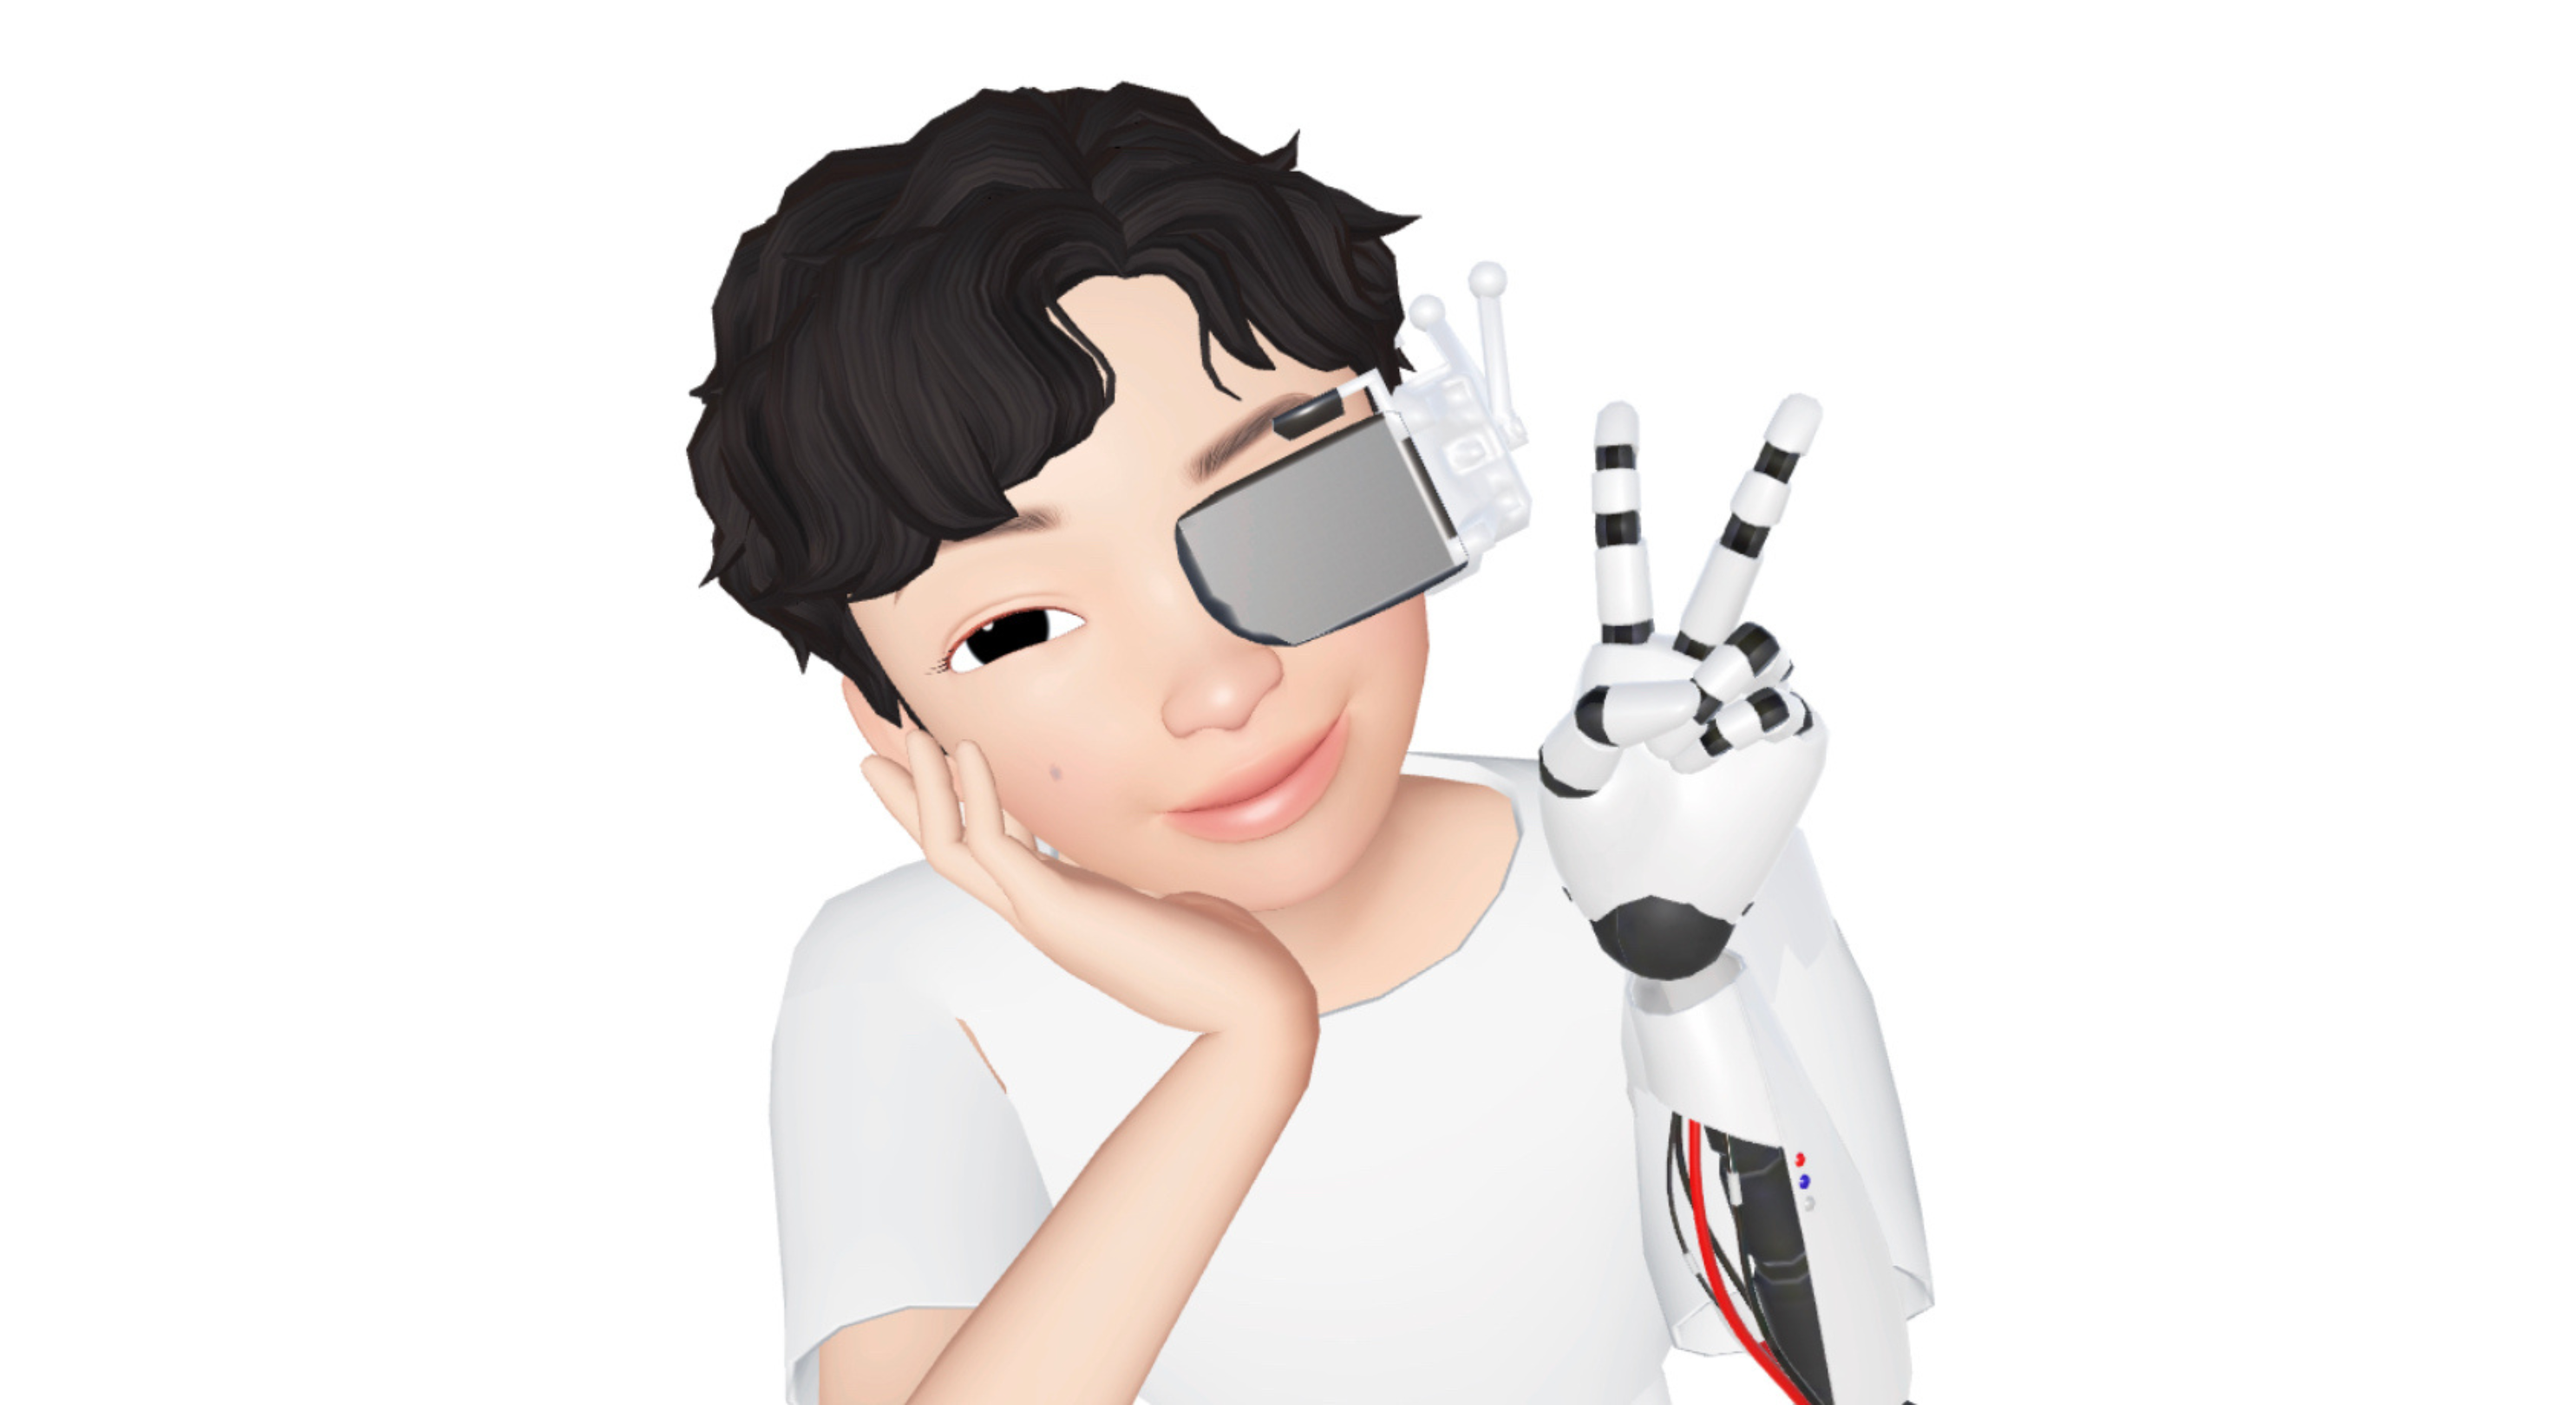
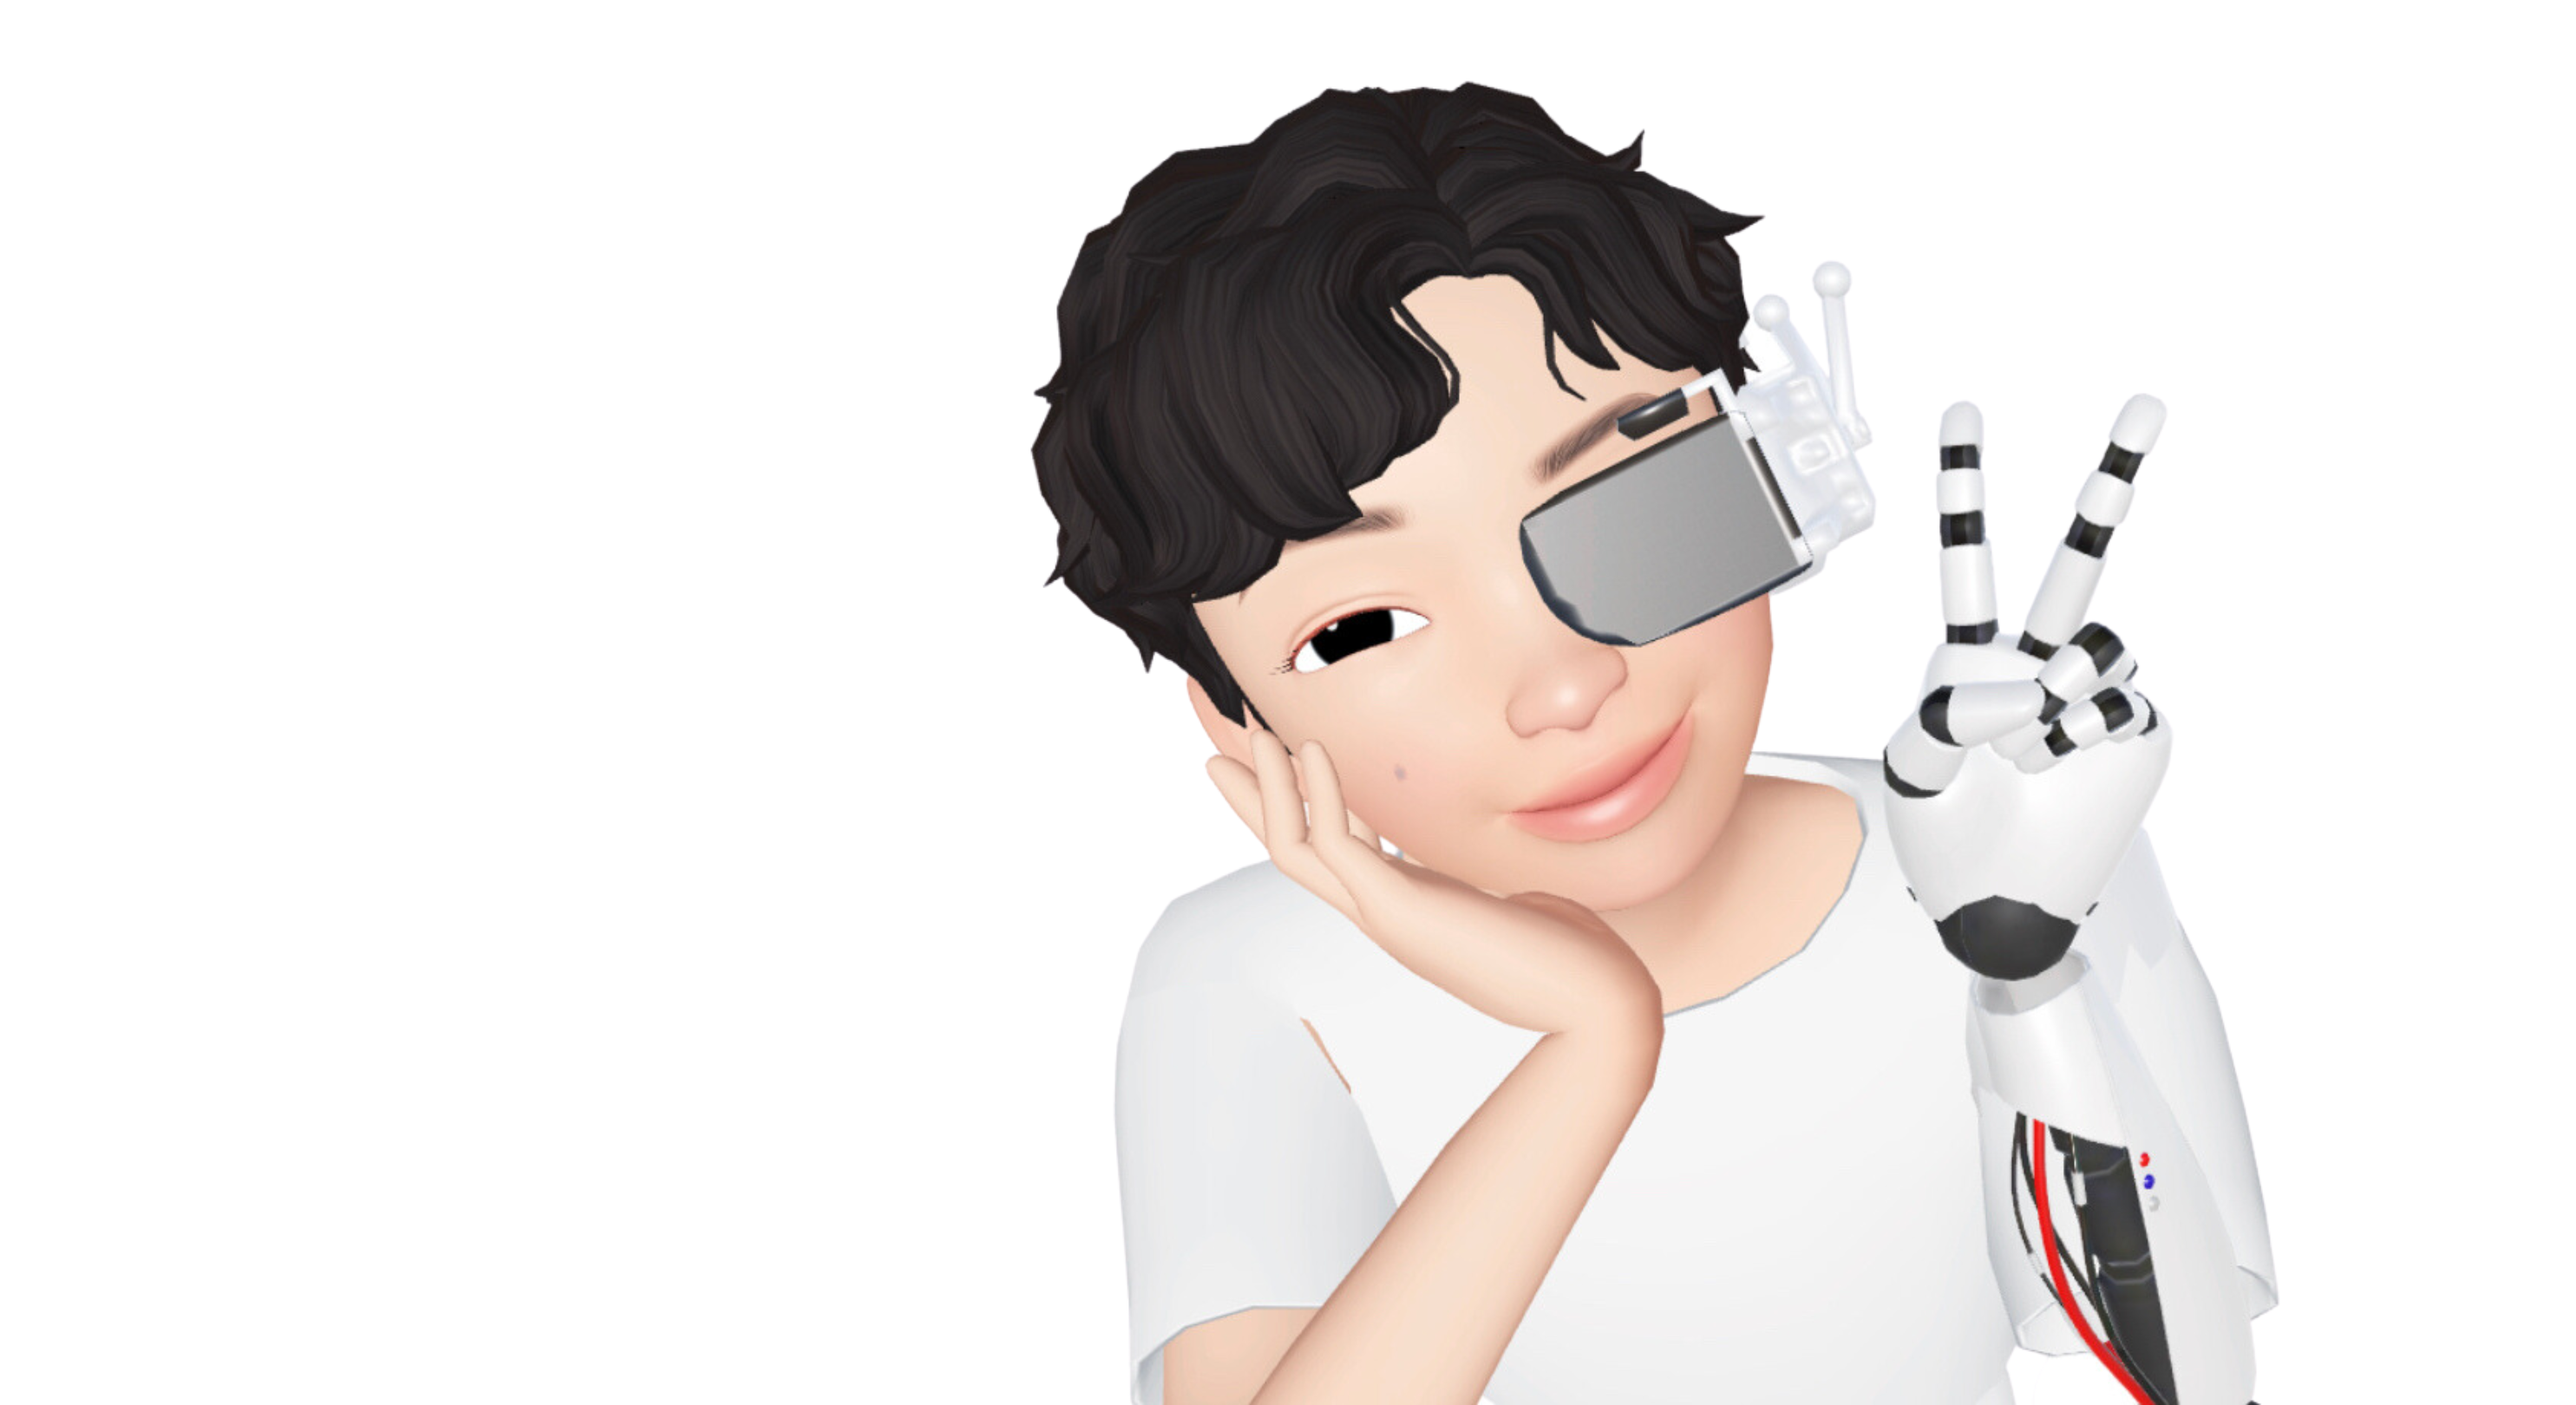
fit the main image to browser

diff --git a/Assets/css/style.css b/Assets/css/style.css
@@ -1,22 +1,55 @@
 nav {
-    font-size: 20px;
-    text-align: center;
-    margin: 30px 0 0;
-    padding: 10px 0;
-    font-family: "Lucida Console", "Courier New", monospace;
-  }
+  font-size: 20px;
+  text-align: center;
+  margin: 30px 0 0;
+  padding: 10px 0;
+  font-family: "Lucida Console", "Courier New", monospace;
+}
 
 /* Added display inline to make the navigation bar horizontal */
 /* Added padding for the spacing between the links */
 /* Display inline-block allows me to edit padding/ margin */
 nav li {
-    display: inline-block;
-    padding: 15px
-  }
+  display: inline-block;
+  padding: 15px
+}
 
-  /* Made the anchor tag text black and removed the text deocation
+/* Made the anchor tag text black and removed the text deocation
 that underlines the words. */
 a {
-    color:black;
-    text-decoration: none;
-  }
+  color: black;
+  text-decoration: none;
+}
+
+/* Made iimg height auto so it can remain the same as the browser size increases */
+img {
+  width: 100%;
+  height: auto;
+}
+
+
+
+
+/* Main-profile class and image 1&2 IDs code found online to stack two images on top of each other */
+.main-profile-pic {
+  position: relative;
+  top: 0;
+  left: 0;
+}
+
+#image1 {
+  position: relative;
+  top: 0px;
+  left: 0px;
+  display: flex;
+  flex-wrap: wrap
+}
+
+#image2 {
+  position: absolute;
+  top: 0px;
+  left: 0px;
+  display: flex;
+  flex-wrap: wrap
+}
+

diff --git a/index.html b/index.html
@@ -18,6 +18,20 @@
                 <li><a href="#Contact">Contact</a></li>
             </ul>
 
+        <main>
+            <section class="main-profile-pic">
+                <img id="image1" src="./Assets/images/Website.gif" alt="Profile Icon"/>
+                <img id="image2" src="./Assets/images/Website.png" alt="Word Bubble GIF"/>
+            </section>
+
+
+
+
+
+
+
+        </main>
+
 
 
 
